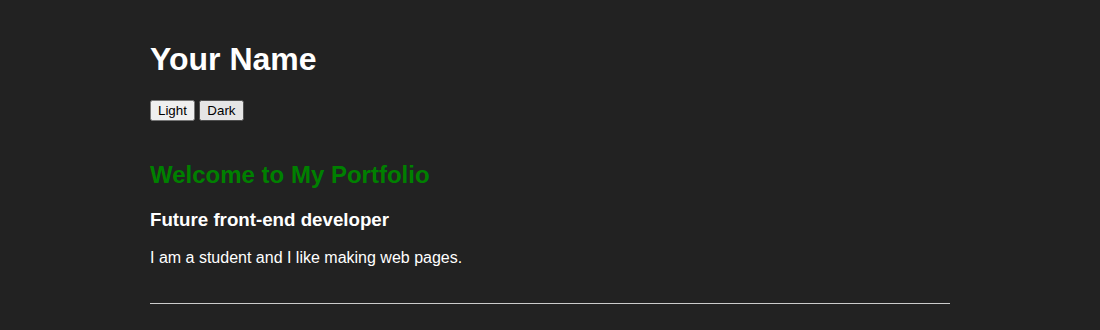
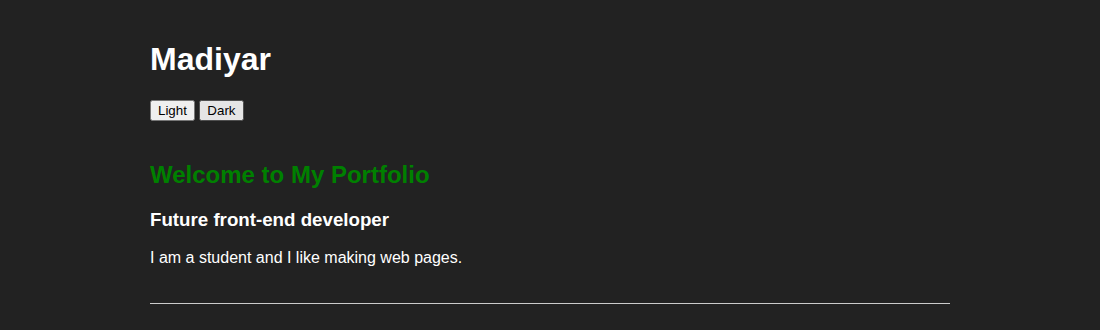
Assignment 6

Changed region(s): [[0.1236, 0.1212, 0.3091, 0.2424]]

diff --git a/README.md b/README.md
@@ -4,12 +4,7 @@ Name: bissentayev Madiyar
 
 
 
-## Part 1. Getting Started with jQuery
 
-### Task 0. Setup
-jQuery is connected from a CDN. The code is inside, and the console shows "jQuery is ready!".
-
-![Task 0](screenshots/task0.png)
 
 ### Task 1. Selectors & CSS
 The home section has my name, a headline, a short intro and the title "Welcome to My Portfolio".  Two buttons switch between the light and the dark theme.
